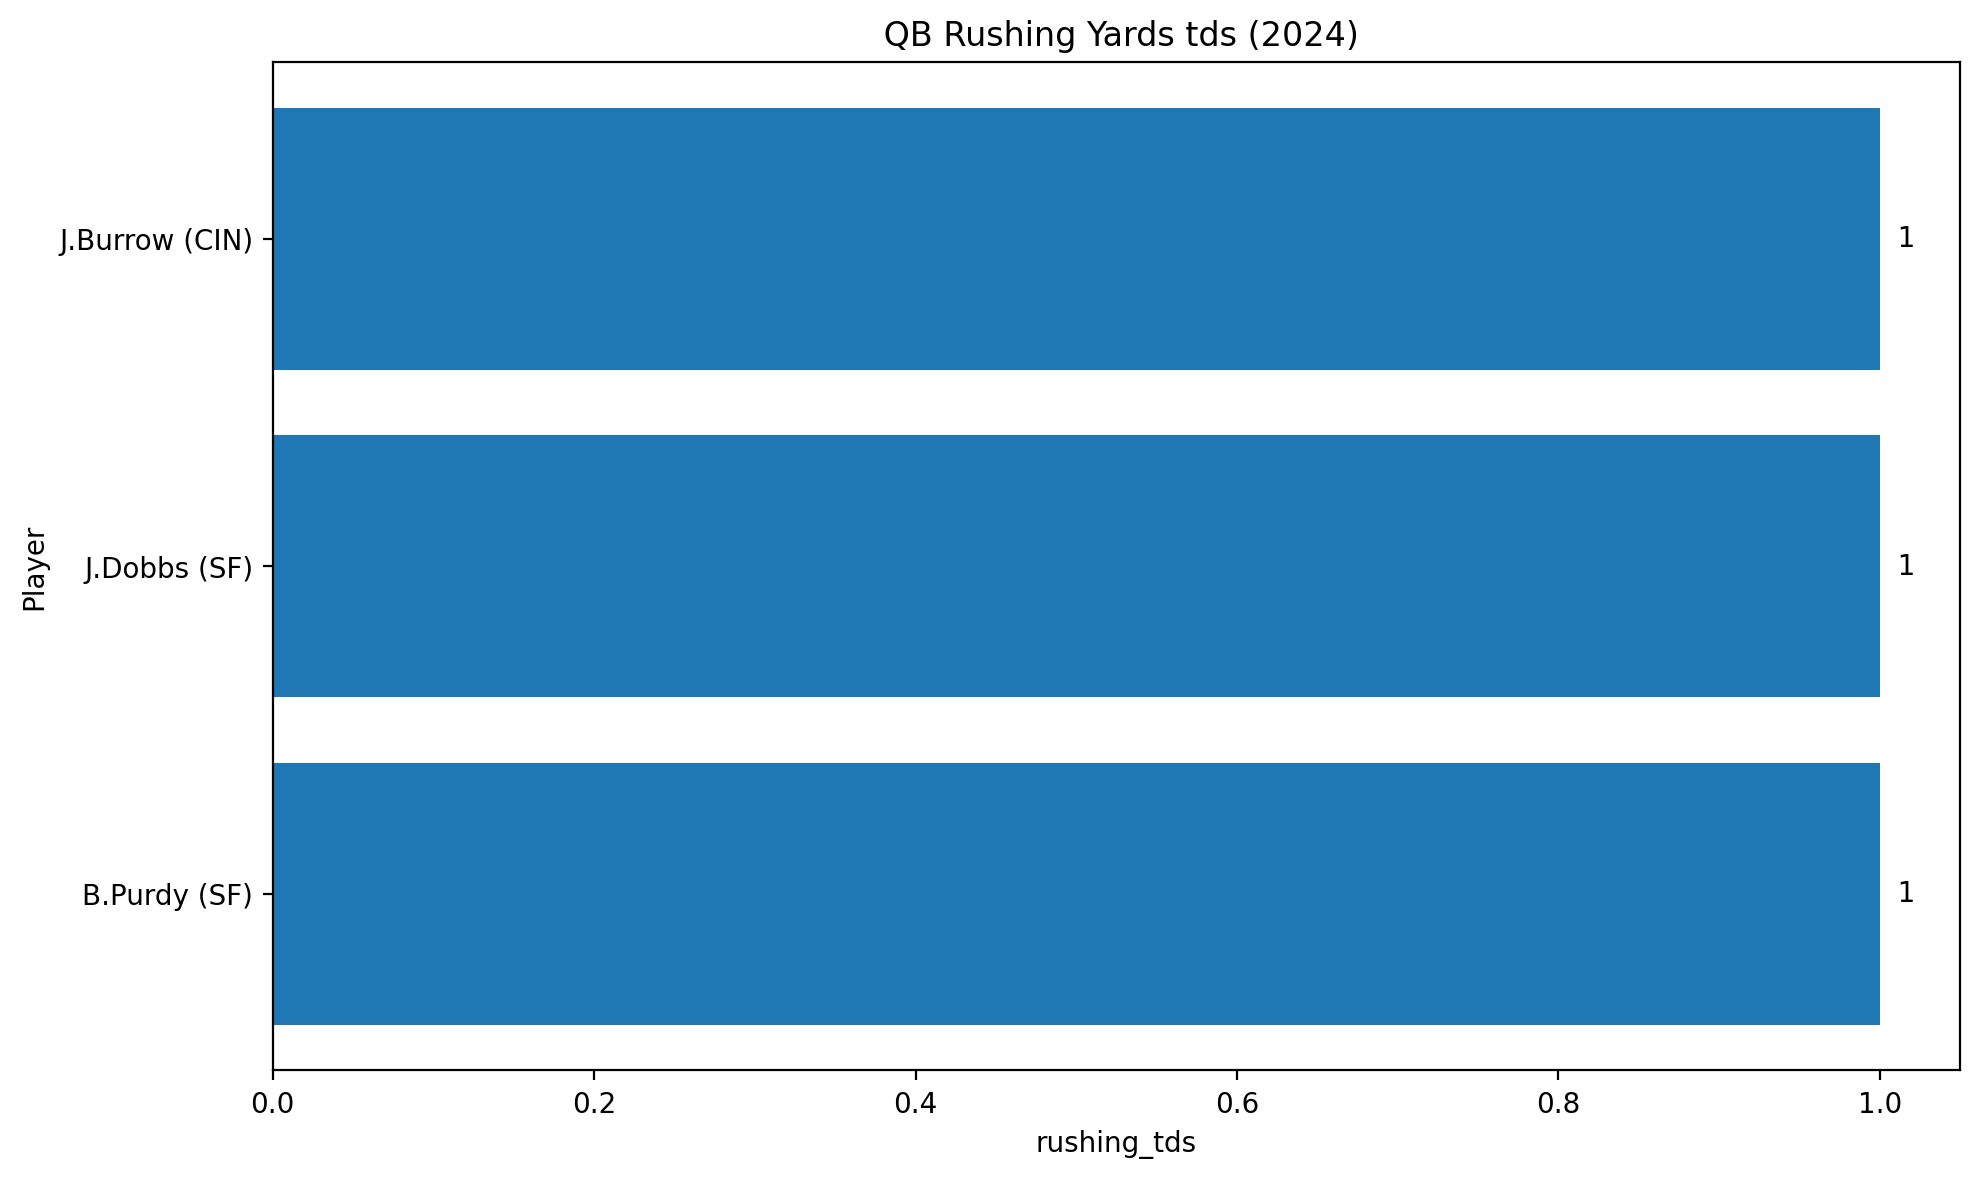
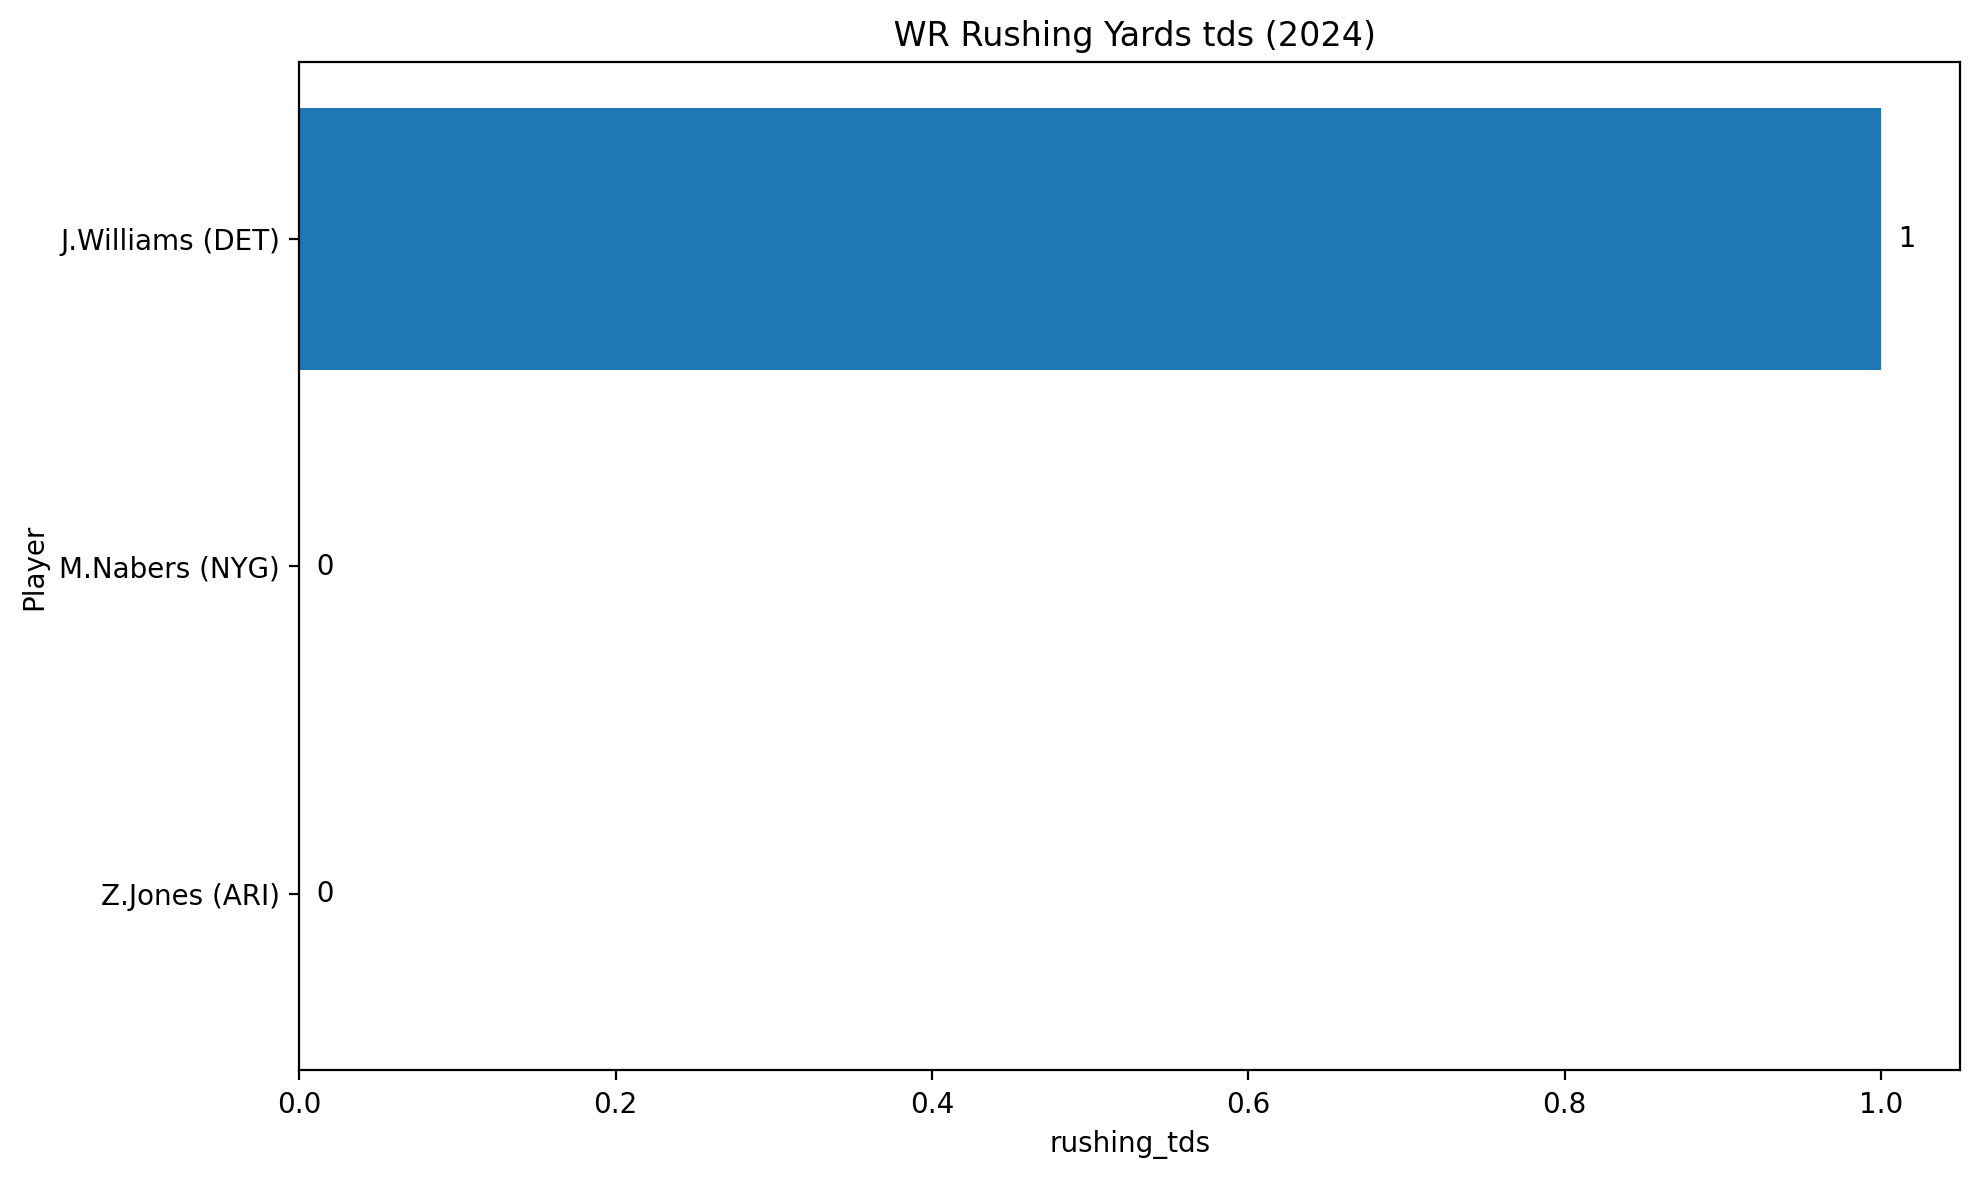
Quistons_about_football

diff --git a/unit3/helper3.py b/unit3/helper3.py
@@ -375,7 +375,7 @@ def get_player_stats_by_name(
 def get_advanced_team_records(year: int, return_game_level: bool = False
     ) -> Union[pd.DataFrame, Tuple[pd.DataFrame, pd.DataFrame]]:
     """
-    Get team records plus advanced team performance stats.
+    Get team records plus advanced team performance stats (offense + defense).
 
     Args:
         year (int): NFL season (e.g., 2024)
@@ -387,7 +387,7 @@ def get_advanced_team_records(year: int, return_game_level: bool = False
     Returns:
         pandas.DataFrame OR (pandas.DataFrame, pandas.DataFrame):
             - records: one row per team with wins, losses, PF/PA, point diff, etc.
-            - team_games (optional): one row per team-game with metadata + advanced stats
+            - team_games (optional): one row per team-game with meta + advanced stats
     """
 
     # -------------------------
@@ -411,7 +411,6 @@ def get_advanced_team_records(year: int, return_game_level: bool = False
     # -------------------------
     # 2. Game metadata subset
     # -------------------------
-    # These columns may vary by version; we only keep ones that exist.
     meta_cols = [
         "game_id", "week", "gameday", "weekday", "gametime",
         "stadium", "roof", "surface", "temp", "wind",
@@ -453,12 +452,11 @@ def get_advanced_team_records(year: int, return_game_level: bool = False
     # --------------------------------------
     # 4. Load play-by-play & build advanced
     # --------------------------------------
-    # Limit to needed columns to keep memory sane
     pbp_cols = [
         "play_id",
         "game_id",
         "posteam",      # offensive team
-        "defteam",
+        "defteam",      # defensive team
         "yards_gained",
         "rush_attempt",
         "pass_attempt",
@@ -476,7 +474,8 @@ def get_advanced_team_records(year: int, return_game_level: bool = False
     # Keep only offensive plays that have a posteam
     pbp = pbp[~pbp["posteam"].isna()].copy()
 
-    team_game_advanced = (
+    # ---- OFFENSIVE STATS (by posteam) ----
+    team_game_off = (
         pbp.groupby(["game_id", "posteam"])
            .agg(
                plays=("play_id", "count"),
@@ -494,20 +493,52 @@ def get_advanced_team_records(year: int, return_game_level: bool = False
            )
            .reset_index()
     )
+    team_game_off["turnovers"] = (
+        team_game_off["interceptions"] + team_game_off["fumbles_lost"]
+    )
 
-    team_game_advanced["turnovers"] = (
-        team_game_advanced["interceptions"] + team_game_advanced["fumbles_lost"]
+    # ---- DEFENSIVE STATS (by defteam = yards allowed, etc.) ----
+    team_game_def = (
+        pbp.groupby(["game_id", "defteam"])
+           .agg(
+               def_plays=("play_id", "count"),
+               def_yards_allowed=("yards_gained", "sum"),
+               def_passing_yards_allowed=("passing_yards", "sum"),
+               def_rushing_yards_allowed=("rushing_yards", "sum"),
+               def_rush_attempts_faced=("rush_attempt", "sum"),
+               def_pass_attempts_faced=("pass_attempt", "sum"),
+               def_total_epa_allowed=("epa", "sum"),
+               def_avg_epa_allowed=("epa", "mean"),
+               def_success_rate_allowed=("success", "mean"),
+               # From the defense's POV, these are TAKEAWAYS
+               def_interceptions=("interception", "sum"),
+               def_fumbles_forced=("fumble_lost", "sum"),
+               def_touchdowns_allowed=("touchdown", "sum"),
+           )
+           .reset_index()
+    )
+    team_game_def["def_takeaways"] = (
+        team_game_def["def_interceptions"] + team_game_def["def_fumbles_forced"]
     )
 
     # -----------------------------------------
     # 5. Merge basic team-games with advanced
     # -----------------------------------------
+    # Merge offensive stats
     team_games = team_games_basic.merge(
-        team_game_advanced,
+        team_game_off,
         left_on=["game_id", "team"],
         right_on=["game_id", "posteam"],
         how="left"
     ).drop(columns=["posteam"])
+
+    # Merge defensive stats (same row = same team, now as defteam)
+    team_games = team_games.merge(
+        team_game_def,
+        left_on=["game_id", "team"],
+        right_on=["game_id", "defteam"],
+        how="left"
+    ).drop(columns=["defteam"])
 
     # Add game metadata (stadium, roof, temp, spread, etc.)
     team_games = team_games.merge(
@@ -537,8 +568,8 @@ def get_advanced_team_records(year: int, return_game_level: bool = False
     records["point_diff"] = records["points_for"] - records["points_against"]
     records["win_pct"] = records["wins"] / records["games_played"]
 
-    # Add some aggregated advanced metrics
-    advanced_team_agg = (
+    # ---- OFFENSIVE TEAM-LEVEL AGGREGATES ----
+    advanced_off_agg = (
         team_games.groupby("team")
         .agg(
             total_yards=("total_yards", "sum"),
@@ -548,14 +579,36 @@ def get_advanced_team_records(year: int, return_game_level: bool = False
             total_epa=("total_epa", "sum"),
             avg_epa=("avg_epa", "mean"),
             success_rate=("success_rate", "mean"),
-            turnovers=("turnovers", "sum")
+            turnovers=("turnovers", "sum"),
         )
         .reset_index()
     )
 
-    records = records.merge(advanced_team_agg, on="team", how="left")
+    # ---- DEFENSIVE TEAM-LEVEL AGGREGATES ----
+    advanced_def_agg = (
+        team_games.groupby("team")
+        .agg(
+            def_plays=("def_plays", "sum"),
+            def_yards_allowed=("def_yards_allowed", "sum"),
+            def_passing_yards_allowed=("def_passing_yards_allowed", "sum"),
+            def_rushing_yards_allowed=("def_rushing_yards_allowed", "sum"),
+            def_total_epa_allowed=("def_total_epa_allowed", "sum"),
+            def_avg_epa_allowed=("def_avg_epa_allowed", "mean"),
+            def_success_rate_allowed=("def_success_rate_allowed", "mean"),
+            def_touchdowns_allowed=("def_touchdowns_allowed", "sum"),
+            def_takeaways=("def_takeaways", "sum"),
+        )
+        .reset_index()
+    )
 
-    # Sort like before
+    # Merge offensive + defensive advanced stats into records
+    records = (
+        records
+        .merge(advanced_off_agg, on="team", how="left")
+        .merge(advanced_def_agg, on="team", how="left")
+    )
+
+    # Sort standings
     records = records.sort_values(
         ["wins", "point_diff"], ascending=[False, False]
     ).reset_index(drop=True)
@@ -600,6 +653,19 @@ def plot_team_points_by_week(team_games, team):
     plt.show()
 
 def plot_point_diff_vs_win_pct(records):
+    plt.figure(figsize=(10, 6))
+    plt.scatter(records["point_diff"], records["win_pct"])
+
+    for _, row in records.iterrows():
+        plt.text(row["point_diff"], row["win_pct"], row["team"],
+                 fontsize=8, ha="center", va="bottom")
+
+    plt.title("Point Differential vs Win Percentage")
+    plt.xlabel("Point Differential (Points For - Points Against)")
+    plt.ylabel("Win Percentage")
+    plt.axvline(0, linestyle="--")
+    plt.tight_layout()
+    plt.show()
     plt.figure(figsize=(10, 6))
     plt.scatter(records["point_diff"], records["win_pct"])
 

diff --git a/exrsize4.py b/exrsize4.py
@@ -1,9 +1,9 @@
-from helper3 import weeklyPlayerStats,plot_weekly_player_stats,plot_player_stat
+from unit3.helper3 import weeklyPlayerStats,plot_weekly_player_stats,plot_player_stat
 import matplotlib.pyplot as plt
 
 
-stats = weeklyPlayerStats(2024, "QB", week=17)  
-plot_player_stat(stats, stat="Rushing_tds", top_n=3, title=" QB Rushing Yards tds (2024)", save_path="qb_passing_yards_2024.png"  )
+stats = weeklyPlayerStats(2024, "WR", week=17)  
+plot_player_stat(stats, stat="Rushing_tds", top_n=3, title=" WR Rushing Yards tds (2024)", save_path="qb_passing_yards_2024.png"  )
 print(stats)
 
 "X Worthy WR 3" 

diff --git a/unit3/reseachAnalysis.py b/unit3/reseachAnalysis.py
@@ -1,0 +1,13 @@
+# "1 this is a comparison because we are looking for the diffrecnes in yards in the divions."
+from helper3 import get_advanced_team_records,  get_season_Results_By_team
+import matplotlib.pyplot as plt
+import pandas as pd
+teamsData=get_advanced_team_records(2024)
+print(teamsData)
+teameRes = get_season_Results_By_team(2024,'PHI')
+print(teameRes)
+
+#"2 J.Willams had the most  targets"
+
+ 
+# "3yesthe time of possesion is strongly correlated with winning as teams that win tend to have higher time of possesion percentages."

diff --git a/unit3/reasrchreveiw.py b/unit3/reasrchreveiw.py
@@ -2,5 +2,5 @@
 
 "who has the most passing yard per team" 
 
-from helper3 import weeklyPlayerStats,plot_weekly_player_stats,plot_player_stat
+from unit3.helper3 import weeklyPlayerStats,plot_weekly_player_stats,plot_player_stat
 import matplotlib.pyplot as plt
